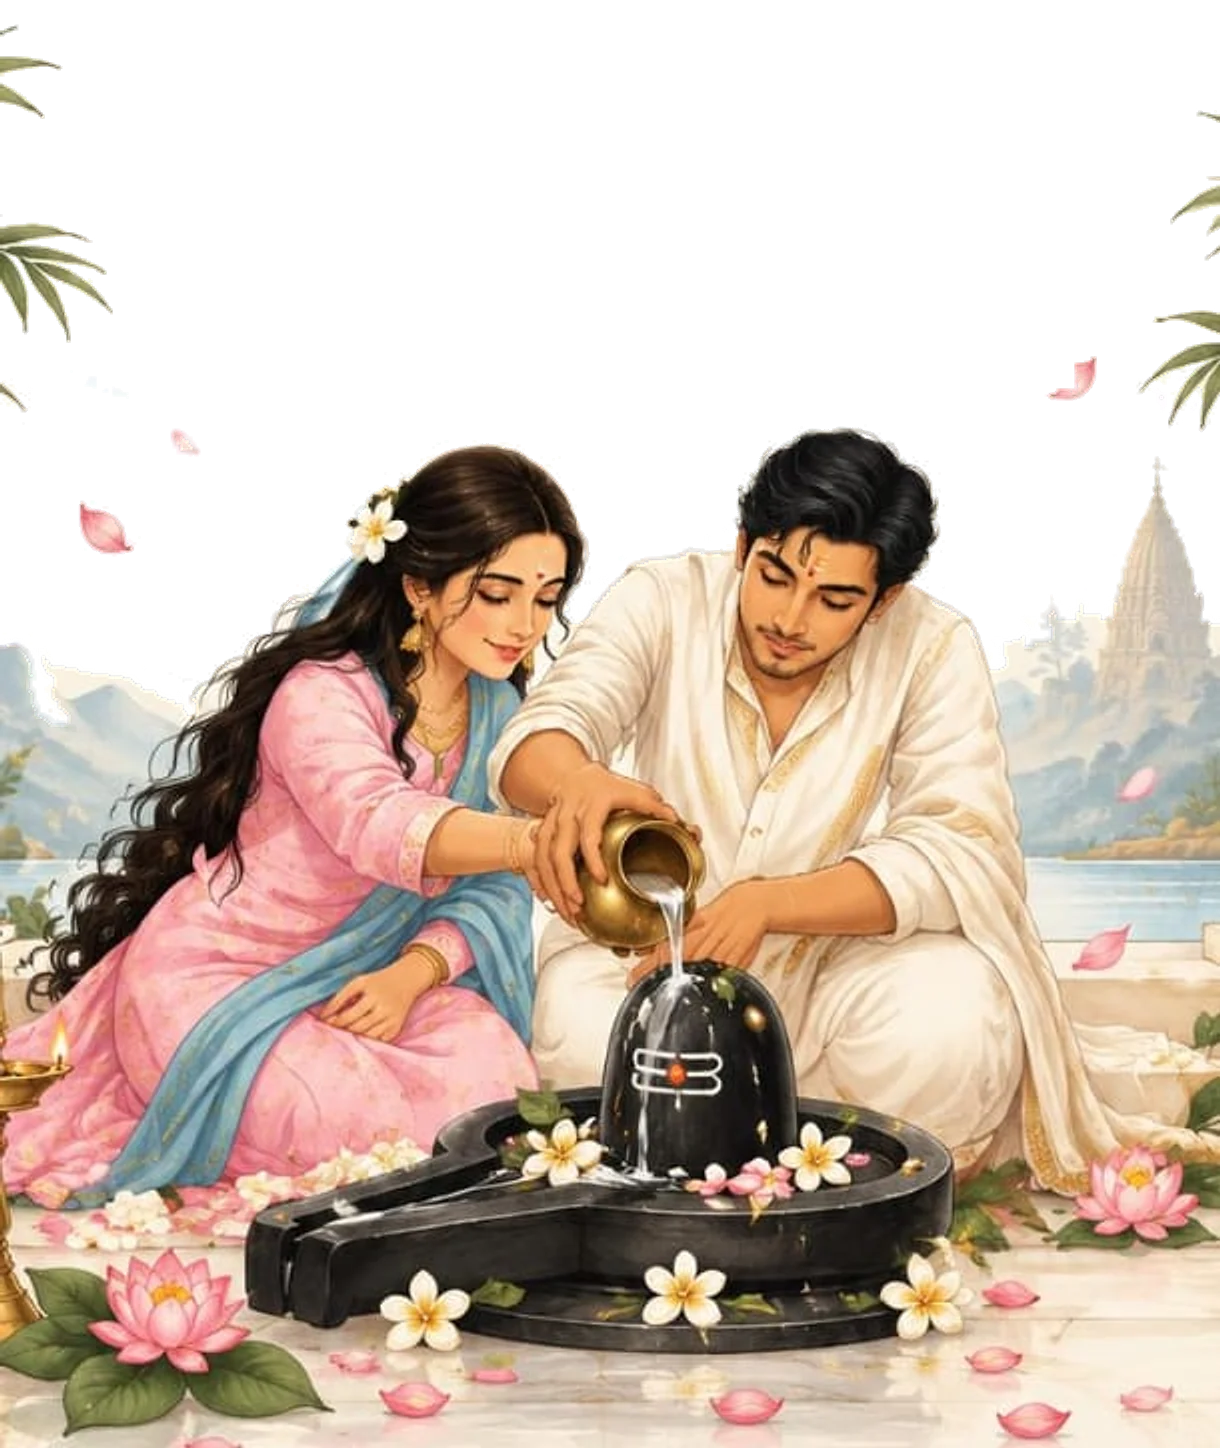
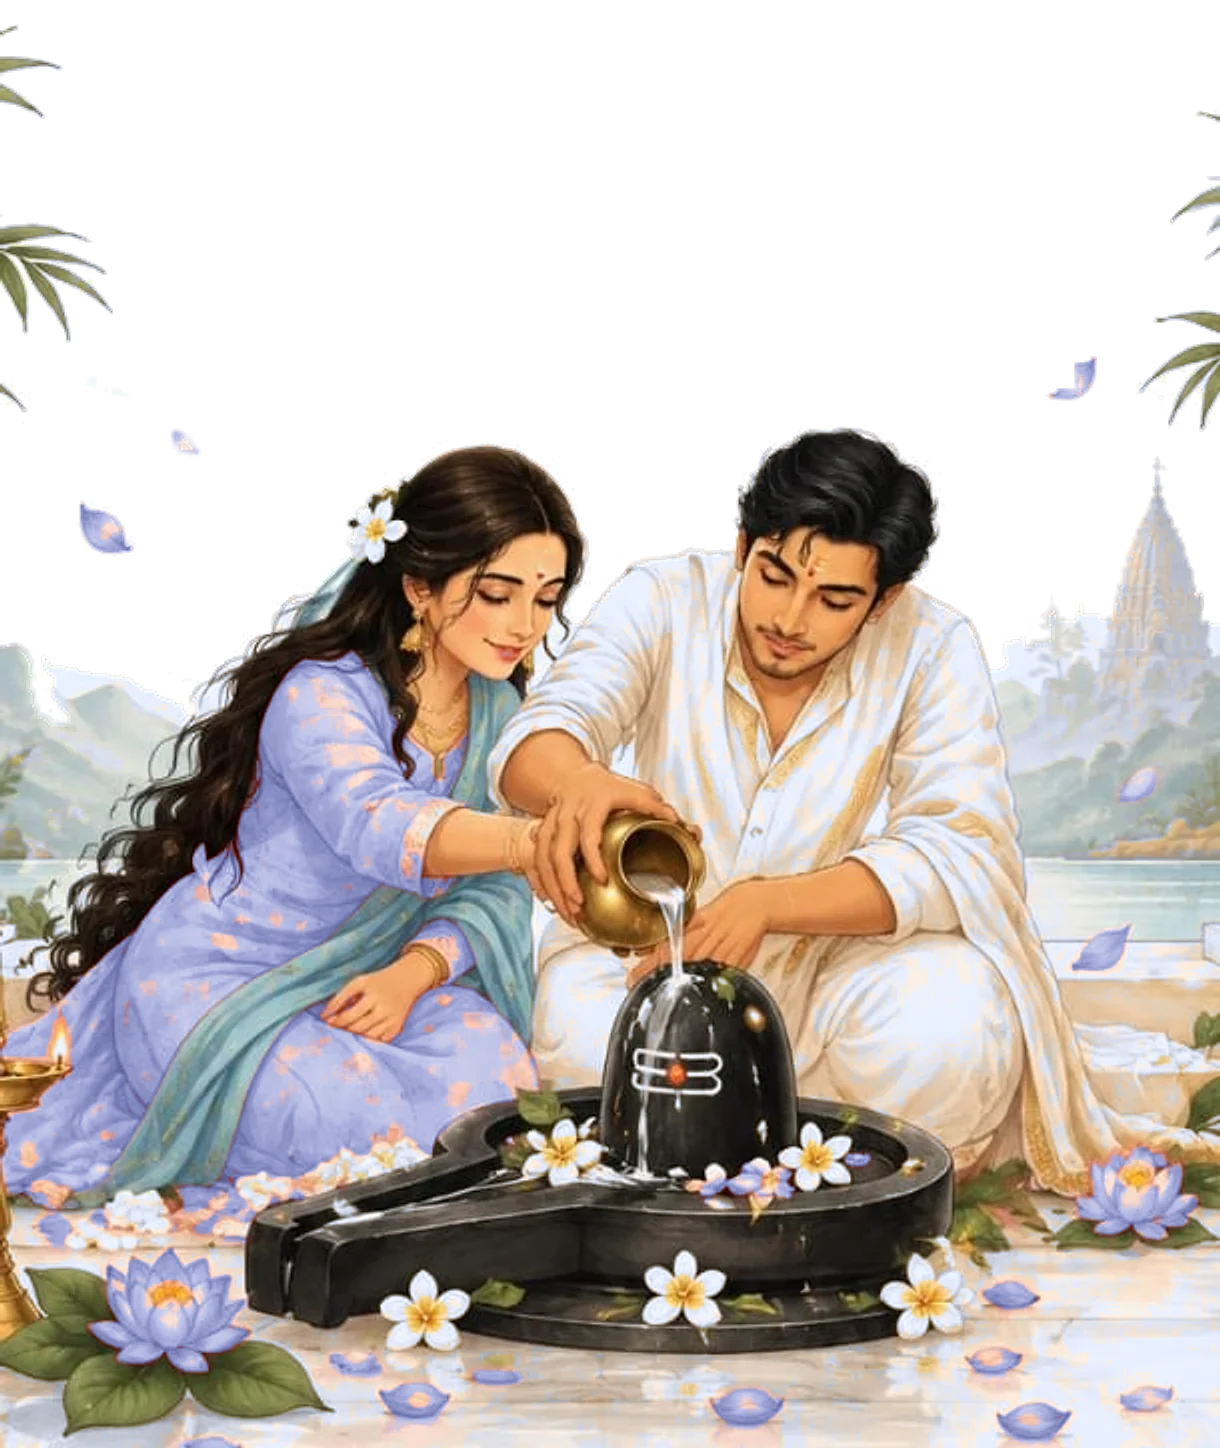
Cool tones across the sections, to match the invitation
The invitation's Himalayan blue is the key; the warm accents elsewhere
now follow it:

- Couple: her pink kurta becomes soft lavender, his cream kurta and
  dhoti cool white, the pink lotuses and petals blue lotuses, and the
  garlands' pink buds lavender-blue (each by lightness, so folds,
  embroidery and shading stay; skin, gold, brass and the diya are
  untouched). "Welcome" turns from kumkum red to a deep sapphire, and
  the petals falling into the section are jasmine-white.
- Countdown: the wreath's pink roses turn lavender-blue and the wedding
  day's red lotus a blue one, its number's glow and shadow blue.
- Events: the arch's pink lotuses turn blue.

Real photographs (family, gallery) and the ceremonies' own outfits,
which match their dress codes, are unchanged.

diff --git a/src/index.css b/src/index.css
@@ -176,7 +176,7 @@
     height: auto;
     max-width: none;
     translate: -50% -52%;
-    filter: drop-shadow(0 3px 4px rgb(120 30 50 / 0.28));
+    filter: drop-shadow(0 3px 4px rgb(30 40 110 / 0.3));
     pointer-events: none;
   }
   /* the lotus breathes, a soft gold glow swelling behind it (2.6s) */
@@ -223,8 +223,8 @@
     position: relative;
     color: #fff;
     text-shadow:
-      0 1px 2px rgb(110 20 45 / 0.75),
-      0 0 6px rgb(150 30 60 / 0.5);
+      0 1px 2px rgb(24 32 90 / 0.8),
+      0 0 6px rgb(40 50 120 / 0.55);
   }
   /* the words above, in a deeper gold that reads on the pale sky */
   .cd-deep-gold {
@@ -2247,7 +2247,8 @@
     width: var(--size);
     height: calc(var(--size) * 1.35);
     border-radius: 60% 60% 50% 50% / 75% 75% 30% 30%;
-    background: linear-gradient(160deg, #f7b9c5, #e2677f 70%, #c94a62);
+    /* jasmine-white petals with a breath of lavender, as the couple scene's */
+    background: linear-gradient(160deg, #ffffff, #e2e4f6 65%, #b9bde6);
     opacity: 0;
     will-change: transform, opacity;
   }
@@ -2372,9 +2373,9 @@
       display: none;
     }
   }
-  /* "Welcome": a deep kumkum red, festive, and clear on the pale sky */
+  /* "Welcome": a deep sapphire — Mahadev's blue, festive, and clear on the pale sky */
   .couple-welcome-word {
-    color: #9b1c31;
+    color: #2a4f8f;
   }
   .couple-scene-foot {
     margin-top: calc(40px - 35.1vw);

diff --git a/src/components/sections/Couple.tsx b/src/components/sections/Couple.tsx
@@ -20,7 +20,7 @@ const TOAST_MS = 1500;
  * below the bells, the guest's welcome — their name from the link, the
  * couple's names, the hashtag (a tap copies it), the date and the venue (a
  * map link); and at the foot the couple offering water to the Shivling, by
- * the river with a temple, a diya and lotuses — always with clear sky above
+ * the river with a temple, a diya and blue lotuses (she in lavender, he in cool white) — always with clear sky above
  * their heads. The words rise in one by one as the section comes into view
  * (in Hindi too, when the Save the Date's EN / हिं switch is on हिं). It keeps
  * its id because the Save the Date's "View the Invitation" and auto-glide land

diff --git a/README.md b/README.md
@@ -113,10 +113,10 @@ Each section has its own composition, and each hands over to the next.
 | 00 | Opening | The couple's own picture (`assets.opening`, 852 × 1846): a sunrise sky with clouds and the Himalaya, and the two hands on their own layers (cut out with the background-removal model; the sky behind them rebuilt seamlessly). Both hands start partly off the screen — Shiva's at the upper left, reaching down; the bride's at the lower right, palm up — and glide slowly toward each other (3.8s), until their fingertips all but touch; a warm gold glow between them, then it widens, a few gold motes drift outward and both hands fade together into the sky. Only once they are gone does the card rise in, as the sunrise melts away. Skip is always shown, a reload gets a quicker version, and `?opening=full` replays the full one. |
 | 01 | Save the Date | Exactly one screen (`100svh`). The card rises in piece by piece, in order of importance: "Save the Date", the names (stacked: bride, a small gold "&", groom — never cut, however long), the request, the date on one line (February · 12 · 2027) and the venue (a tap opens Google Maps directions) — 64px from the top, 12px apart, each with a soft white glow; then the painting of Mahadev blessing Maa Parvati before the snowy Himalaya, edge to edge across the foot of the screen (at least 58svh, cropped from the bottom so the crown stays in view), only its top edge fading into the sky. At the foot, on a dark-navy panel (rgba(8,24,52,.88) rising to clear): the blessing line and **View the Invitation** with a gently bobbing double arrow — a tap glides to the next section. EN / हिं switches the card to Hindi (`invitation.hindi`, remembered on the phone, shared with the switch on the couple section). Faint clouds part as the guest scrolls, the moon in Mahadev's hair glows softly, and a bell in the corner plays a soft temple dhun made in the browser — only when tapped. After 5 s of reading it glides on by itself (`invitation.autoAdvanceMs`); any touch cancels this. |
 | 01→02 | Descent | "Kailash se Mandir" (`Descent.tsx`), scrubbed by the scroll and only vertical: the Save the Date's painting, in two layers (`assets.saveTheDateLayers`), drifts up — the Himalaya slowly and a little to the left, Mahadev and Maa Parvati a little faster — and fades into mist; the blessing panel melts away; three layers of soft cloud pass across at their own speeds and a few petals fall; the couple section's arch rises 60px into place, then its scene as it comes up the screen. The sky behind is one fixed layer, so there is no line between them. On arrival the bells and the two jasmine garlands (`assets.coupleGarlands`) swing once, and the welcome comes in line by line after the arch has settled. Transform and opacity only, all inside the phone on desktop. Reduced motion: none of it — the couple section simply fades in. |
-| 02 | Couple | One screen in the style of the couple's chosen painting, on the site's own sky, starting right where the Save the Date ends (no gap): a carved arch in deep navy (the Blessing Wall button's colour, toned so the carving keeps its depth) hung with white flowers where its leaves were, with jasmine strings and three temple bells that sway gently (`assets.coupleArch`, `assets.coupleBells`); on the sky below the bells, the welcome (`coupleWelcome`) — "Welcome" (स्वागतम् in Hindi), "Dear {guest}," from the link (`?guest=`, `?to=` or `?name=`, max 40 characters; without one, `guest.fallbackName`), 20px with the name in bold at 26px, "you are warmly invited" (or its Hindi), the couple's names stacked, a fine gold line, the hashtag (a tap copies it and shows "Copied"), the date on one line (12 · FEBRUARY · 2027), another gold line and the full venue as a Google Maps link — rising in one by one as the section comes into view; and at the foot (`assets.coupleScene`) palms, petals, hills, a temple by the river, a diya, lotuses and the couple offering water to the Shivling, always with at least 40px of clear sky above their heads (on a short screen they move lower). Its words follow the Save the Date's EN / हिं switch. It keeps the `#couple` id because "View the Invitation" and the auto-glide land here. |
+| 02 | Couple | One screen in the style of the couple's chosen painting, on the site's own sky, starting right where the Save the Date ends (no gap): a carved arch in deep navy (the Blessing Wall button's colour, toned so the carving keeps its depth) hung with white flowers where its leaves were, with jasmine strings and three temple bells that sway gently (`assets.coupleArch`, `assets.coupleBells`); on the sky below the bells, the welcome (`coupleWelcome`) — "Welcome" (स्वागतम् in Hindi), "Dear {guest}," from the link (`?guest=`, `?to=` or `?name=`, max 40 characters; without one, `guest.fallbackName`), 20px with the name in bold at 26px, "you are warmly invited" (or its Hindi), the couple's names stacked, a fine gold line, the hashtag (a tap copies it and shows "Copied"), the date on one line (12 · FEBRUARY · 2027), another gold line and the full venue as a Google Maps link — rising in one by one as the section comes into view; and at the foot (`assets.coupleScene`) palms, petals, hills, a temple by the river, a diya, blue lotuses and the couple offering water to the Shivling — she in soft lavender, he in cool white (the painting's pink and cream recoloured so the section sits with the invitation's Himalayan blue) — always with at least 40px of clear sky above their heads (on a short screen they move lower). Its words follow the Save the Date's EN / हिं switch. It keeps the `#couple` id because "View the Invitation" and the auto-glide land here. |
 | — | Between sections | A ripple of the Ganga (`SectionSeparator`, 72px, edge to edge): a fine wavy line in pale blue and gold with a fainter one behind, on a soft band of the site's mist so each section flows into the next; on it a small floating ornament — lotus (its petals opening and closing, just), diya (its flame flickering) or shankh, by turn — bobbing gently. Once in view the line draws from left to right (0.8s) and the ornament rises in after it; as the guest scrolls the two lines drift a little in opposite ways (±26px / ∓18px). None between the Save the Date and the couple section. Section paddings are small (`--section-gap` 1.25rem) so the ripple takes the place of empty space. Reduced motion: still. |
-| 03 | Countdown | Above: शुभ मुहूर्त, "Countdown Begins", a fine gold line and the date — the eyebrow and the date in a deep antique gold (#7A561C), the date at 14px, to read on the pale sky in sunlight. Then the couple's wreath (`assets.countdownWreath`), made over for Shiv–Parvati: its travel and café icons replaced with watercolour icons in its own palette — trishul, damru, bilva patra and diya on the left, ghanti, kalash, shankh and a rudraksha mala on the right, each level with its pair — and the ring closed beneath by a leafy vine running behind the mountain and the joined hands (made by `scratchpad/wreath/compose.cjs`: old icons taken out, the vines kept). Inside it, the wedding's month as a calendar (made from the date), raised so the 28th clears the mountain's peak by 19px+; on the wedding day the watercolour lotus blooms under a white 12, clear of the 11th and 13th, breathing with a soft gold glow (2.6s). The clouds part as it appears. Under it, "Hamare vivah mein baaki hain" in the section's italic, then the row: the days large in navy turning gold, hours, minutes and seconds a little smaller; labels in English over Hindi (DAYS / दिन …), tabular digits. The first time it is seen the numbers count up from zero (1s); then each digit rolls on its own as it changes (300ms), and a small gold bead beats by the seconds. Always to 12 February 2027, 7:30 PM at the venue (IST), whatever the guest's time zone; on the day "Aaj Hamara Vivah Hai", afterwards "Shubh Vivah" — "Thank you for blessing us." EN / हिं switches its words. Reduced motion: no count-up, no roll, nothing pulses — fades only. |
-| 05 | Wedding Events | "Wedding Events" and its quote above the couple's gold temple arch (`assets.eventsArch`), its lotus, banana leaves, music and elephant all still. Inside the arch, one ceremony at a time (`events.list`: name, date, time, venue, dress code, the couple dressed for it — cut-outs in `public/art/events/` — and an optional artist credit); all sized to the arch's own width, so it fits the same on every phone. The venue is a small ivory button with a fine gold edge (pin, place, a small arrow out): a tap opens the place in Google Maps (the main venue's own `venue.mapsUrl` when set). To the next: a tap on the arch, a swipe left, or › under it (‹ or a swipe right for the one before; the arrow keys too); after the last, the first. Between the arrows, gold progress marks (the one shown a short gold bar; a tap goes straight to one), and under them "Tap the arch frame to see the events" (`events.hint`). The change (0.8s, ease-in-out; taps meanwhile are ignored): the ceremony shown fades out, its picture easing down to 97% (0.3s); a small gold ornament — a lotus bud between two tendrils — glimmers where the couple stood; the next picture fades in from 96% to 100% (0.45s) and its words rise softly in just after; the marks move at once. The words never move up or down. Reduced motion: a short crossfade, no ornament. The dates, times, venues and dress codes are SAMPLES. |
+| 03 | Countdown | Above: शुभ मुहूर्त, "Countdown Begins", a fine gold line and the date — the eyebrow and the date in a deep antique gold (#7A561C), the date at 14px, to read on the pale sky in sunlight. Then the couple's wreath (`assets.countdownWreath`), made over for Shiv–Parvati: its travel and café icons replaced with watercolour icons in its own palette — trishul, damru, bilva patra and diya on the left, ghanti, kalash, shankh and a rudraksha mala on the right, each level with its pair — and the ring closed beneath by a leafy vine running behind the mountain and the joined hands (made by `scratchpad/wreath/compose.cjs`: old icons taken out, the vines kept). Inside it, the wedding's month as a calendar (made from the date), raised so the 28th clears the mountain's peak by 19px+; on the wedding day the watercolour blue lotus (its reds, like the wreath's pink roses, recoloured to lavender-blue for a cool palette) blooms under a white 12, clear of the 11th and 13th, breathing with a soft gold glow (2.6s). The clouds part as it appears. Under it, "Hamare vivah mein baaki hain" in the section's italic, then the row: the days large in navy turning gold, hours, minutes and seconds a little smaller; labels in English over Hindi (DAYS / दिन …), tabular digits. The first time it is seen the numbers count up from zero (1s); then each digit rolls on its own as it changes (300ms), and a small gold bead beats by the seconds. Always to 12 February 2027, 7:30 PM at the venue (IST), whatever the guest's time zone; on the day "Aaj Hamara Vivah Hai", afterwards "Shubh Vivah" — "Thank you for blessing us." EN / हिं switches its words. Reduced motion: no count-up, no roll, nothing pulses — fades only. |
+| 05 | Wedding Events | "Wedding Events" and its quote above the couple's gold temple arch (`assets.eventsArch`), its blue lotuses (recoloured from pink for a cool palette), banana leaves, music and elephant all still. Inside the arch, one ceremony at a time (`events.list`: name, date, time, venue, dress code, the couple dressed for it — cut-outs in `public/art/events/` — and an optional artist credit); all sized to the arch's own width, so it fits the same on every phone. The venue is a small ivory button with a fine gold edge (pin, place, a small arrow out): a tap opens the place in Google Maps (the main venue's own `venue.mapsUrl` when set). To the next: a tap on the arch, a swipe left, or › under it (‹ or a swipe right for the one before; the arrow keys too); after the last, the first. Between the arrows, gold progress marks (the one shown a short gold bar; a tap goes straight to one), and under them "Tap the arch frame to see the events" (`events.hint`). The change (0.8s, ease-in-out; taps meanwhile are ignored): the ceremony shown fades out, its picture easing down to 97% (0.3s); a small gold ornament — a lotus bud between two tendrils — glimmers where the couple stood; the next picture fades in from 96% to 100% (0.45s) and its words rise softly in just after; the marks move at once. The words never move up or down. Reduced motion: a short crossfade, no ornament. The dates, times, venues and dress codes are SAMPLES. |
 | 06 | Family | Temple bells hang from the section's top corners (fine antique-gold threads, alike on both sides; they drop in and settle with one small swing). "Two Families, One Celebration", "With Their Blessings" and its line, then a small gold lotus rule. Each family in the peacock frame (`assets.familyFrame`: gold pillars crowned with gold scrolls, a peacock on each pillar — its white made transparent; the copy now in the project carries the stock site's watermark, so replace it with the licensed file), its photograph (`family.sides[].photo`, 4:5) between the peacocks with an arched top and a fine gold edge, the peacocks just in front of it; then the family's name and members (relation in gold capitals, the names beneath). On a phone one above the other, a lotus rule between; from 520px side by side. A faint temple at the foot. The frame appears, then the photograph within it, then the names; the two sides take turns. |
 | 07 | Gallery | A heart-shaped collage under "Moments to Remember", "Our Gallery" and the quote (26px below it): 14 photos of different sizes (5 of the 9 twice, once as a close-up) with the same thin cream gap between all of them and round the edge (0.9cqw), clipped to the heart curve on a cream mount with a faint, soft shadow, 20px from the screen's edges (up to 440px), sized in its own width units so a real phone and the desktop's phone match. Seen the first time, the tiles fly in from random edges (turned up to ±15°, 70ms apart, a little spring, ~1.4s); then the heart beats now and then, barely (a soft double beat to 1.012, every 3.2s). 3D: 900px perspective, each tile lifted 0–40px by its size (large back, small front) and drawn back to its place at rest; it tilts up to ±8° with the gyroscope (Android at once; an iPhone asks on the first tap, and until allowed — or if refused — a sideways drag tilts it), or toward the mouse in the desktop's phone. A tap opens a lightbox: the whole photo grows out of its tile onto a night-blue veil, with its caption and ‹ 2 / 9 › — a swipe sideways, the arrows or the arrow keys go through all nine photos once each; a swipe down, ×, a tap on the veil or Escape closes it back into a tile showing it (focus and scroll position kept). "Tap a photo" shows until the first tap. With more photos than tiles, every 3s one tile turns over (rotateY 180°) to one not shown — one at a time, not while the lightbox is open or the heart is tilting. Thumbnails lazy-load; the full photo loads in the lightbox. Transform and opacity (a filter for the shadows). Reduced motion or a slow phone: no tilt, turning or beat; tiles fade in where they are; the lightbox fades. |
 | 08 | RSVP | On the page's own sky, as every section (no card). A gold trishul and fine rule at the top, temple bells hanging alike from the upper corners; first the invitation — "A Sacred Celebration", one line and one deep-navy button with a gold edge (as the Blessing Wall's), "JOIN THE CELEBRATION →" (the arrow steps on when pointed at). Tapped (once; more taps are ignored), the acceptance is sent (saved to the family's database when there is one); only when that succeeds does the invitation fade and "The Sacred Union" open in its place (a failure keeps the button, with the reason): a temple arch in thin antique-gold lines draws itself (pillars rising, the arch meeting at its peak, a kalash, one gleam), Mahadev holding Maa Parvati close (the couple's chosen painting, `assets.rsvpCouple`, cut out of its red ground) appears within it from 97% with a soft warm light behind, their feet melting into the sky; then "A Sacred Celebration", the blessing and "Har Har Mahadev" (`rsvp.*`), a navy "Add to calendar" button (Google Calendar or an .ics file of `wedding.dateTime` at the venue — saying exactly what happened, never that the date is saved) and an honest saved-where note. Nothing is remembered on the phone: every visit, a reload too, starts with the button. Then all is still. Reduced motion: plain fades. |
